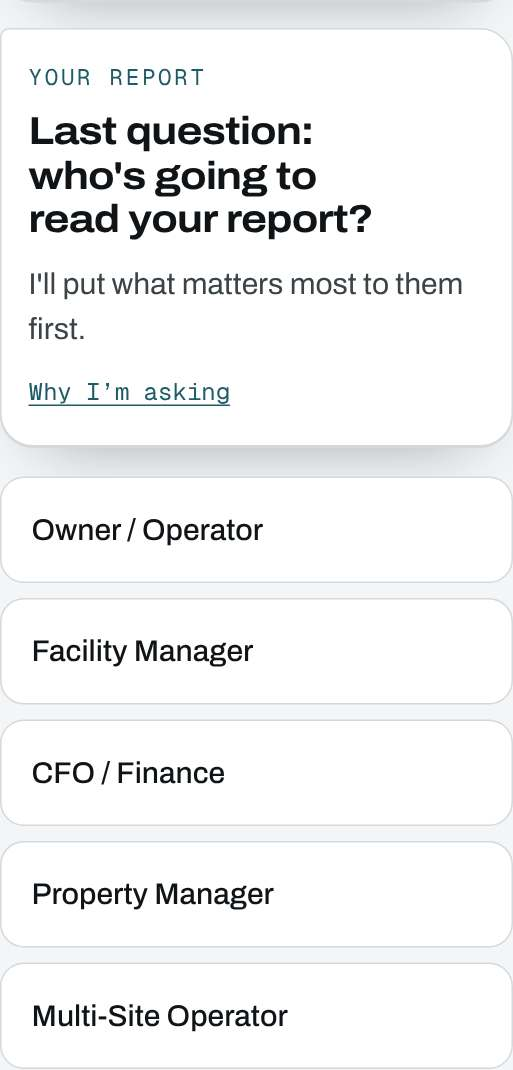
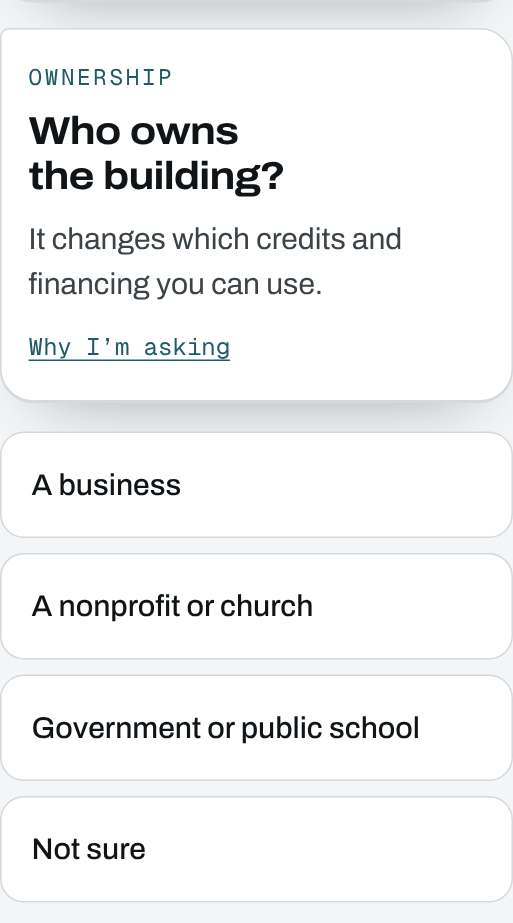
Watt: building-owner question (business, nonprofit or church, government); financing and programs adapt (write-offs for businesses, elective pay for nonprofits and public, performance contracts for public)
Claude-Session: https://claude.ai/code/session_01LfCeLidvVX36Pf8KB3LPn7

diff --git a/walkthrough/app.js b/walkthrough/app.js
@@ -323,7 +323,7 @@
   function restore(o, viewOnly) {
     S = o; S.resumed = true; if (viewOnly) S.viewOnly = true;
     S.pf = S.pf || {}; S.ans = S.ans || {}; S.chip = S.chip || {}; S.order = S.order || [];
-    if (S.fac && FAC[S.fac]) { S.path = FAC[S.fac].path(); TOTAL = 9 + S.path.length; }
+    if (S.fac && FAC[S.fac]) { S.path = FAC[S.fac].path(); TOTAL = 10 + S.path.length; }
     renderProfile();
   }
   function resumeTo(o) {
@@ -525,6 +525,7 @@
     hours: "The longer things run, the more every bit of waste costs you.",
     done: "So I don&rsquo;t count savings you already have.",
     role: "So I can put what matters most to them at the top.",
+    owner: "Tax credits, write-offs and financing work differently for businesses, nonprofits and public buildings. This lets me show the ones that fit you.",
     stored: "Frozen and chilled storage use power very differently.",
     docks: "Every open dock door lets in warm, wet air your refrigeration has to pull back out.",
     occ: "Hotel bills swing with occupancy, so I adjust for the month you gave me.",
@@ -708,7 +709,7 @@
       opts: FAC_ORDER.map(function (k) { return [k, FAC[k].label]; }), preselect: S.preFac, chip: function (k) { return FAC[k].label.split(" /")[0]; },
       pick: function (k) {
         if (S.fac && S.fac !== k) { S.path.forEach(function (q) { if (q.id !== "age" && q.id !== "summer") { delete S.ans[q.q]; delete S.ans[pathQ(q)]; } }); S.pf = {}; ["cases", "refrigRange", "occupancy", "engOverride", "hours"].forEach(function (x) { delete S[x]; }); }
-        S.fac = k; S.path = FAC[k].path(); TOTAL = 9 + S.path.length; },
+        S.fac = k; S.path = FAC[k].path(); TOTAL = 10 + S.path.length; },
       insight: function () {
         var f = engFac(), sh = f.hvac.cooling + f.hvac.ventilation + f.hvac.heat;
         var rows = [];
@@ -723,9 +724,23 @@
       }, next: locations });
   }
 
+  /* who owns the building decides which tax, credit and financing paths apply */
+  var OWNERS = [["biz", "A business"], ["np", "A nonprofit or church"], ["gov", "Government or public school"], ["unk", "Not sure"]];
+  var OWNER_SAY = {
+    biz: { tag: "Ownership", h: "Businesses can usually write off most of the equipment cost in the first year.", p: "That shrinks the real cost of the project, on top of the savings. I&rsquo;ll show the write-offs, rebates and financing that fit." },
+    np: { tag: "Ownership", h: "Good news: nonprofits and churches can receive some federal energy credits as a cash payment.", p: "It&rsquo;s called elective pay. You don&rsquo;t need to owe taxes to benefit. Battery storage is one example. I&rsquo;ll show what fits your building." },
+    gov: { tag: "Ownership", h: "Public buildings can pay for upgrades out of the savings, without new capital budget.", p: "Most states allow energy savings performance contracts for exactly this, and some federal credits can be received as a cash payment. I&rsquo;ll show what fits." },
+    unk: { tag: "Ownership", h: "No problem. I&rsquo;ll show the options that work for most owners.", p: "We sort out the details on a quick call." }
+  };
+  function owner() {
+    at("owner");
+    question({ whyKey: "owner", id: "owner", step: 9 + S.path.length, eyebrow: "Ownership", q: "Who owns the building?", sub: "It changes which credits and financing you can use.", opts: OWNERS, chip: function (k, l) { return "Owner: " + l.replace(/^A /, ""); },
+      pick: function (k) { S.owner = k; },
+      insight: function (k) { return OWNER_SAY[k]; }, next: role });
+  }
   function role() {
     at("role");
-    question({ whyKey: "role", step: 9 + S.path.length, eyebrow: "Your report", q: "Last question: who's going to read your report?", sub: "I'll put what matters most to them first.", opts: ROLES, chip: function (k, l) { return "Report for: " + l; },
+    question({ whyKey: "role", step: 10 + S.path.length, eyebrow: "Your report", q: "Last question: who's going to read your report?", sub: "I'll put what matters most to them first.", opts: ROLES, chip: function (k, l) { return "Report for: " + l; },
       pick: function (k) { S.role = k; },
       insight: function (k) { return { quiet: true, h: "Got it. " + ROLE_INSIGHT[k].p }; }, next: capture });
   }
@@ -1088,7 +1103,7 @@
       if (!names.length) res = { quiet: true, h: "Then everything I found is still on the table." };
       else res = { tag: "Already done", h: counted.length ? "Good. I took those out of your number so I'm not counting savings you already have." : "Good to know. Those already show up in the bill you gave me.",
         p: (S.done.solar || S.done.led ? "Solar and LED lower your bill, and the bill you gave already reflects them. " : "") + (counted.length ? "What's left is the work your current upgrades don't cover." : "None of them overlap with the fixes in your number.") };
-      respond(slot, res, function () { go(role); }, quiet, false);
+      respond(slot, res, function () { go(owner); }, quiet, false);
     }
     go_.addEventListener("click", function () { finish(picked(), false); });
     show(node);
@@ -1227,13 +1242,16 @@
   }
   function rng(r) { return kmoney(r[0]) + " to " + kmoney(r[1]); }
   var PAY_MEASURES = /HVAC|Efficiency|Refrigeration|Chillers|Demand|Load management|Battery|Most capital|VFD|Motors|Building automation|Custom/i;
+  var EXEMPT_STORAGE = "May receive the federal battery storage credit as a cash payment through elective pay, up to 30 percent";
   function payPrograms() {
-    var codes = S.states && S.states.length ? S.states : [S.state];
+    var codes = S.states && S.states.length ? S.states : [S.state], exempt = S.owner === "np" || S.owner === "gov";
     return (EP.incentives || []).filter(function (x) {
       if (x.id === "usda-reap" || x.id === "itc48e-solar") return false;
+      if (exempt && x.id === "bonus-depreciation") return false;
       var inState = x.states === "all" || codes.some(function (c) { return x.states.indexOf(c) >= 0; });
       return inState && x.measures.some(function (m) { return PAY_MEASURES.test(m); });
-    }).sort(function (a, b) { var o = { Utility: 1, Financing: 2, State: 3, Federal: 4 }; return (o[a.level] || 9) - (o[b.level] || 9); });
+    }).map(function (x) { return exempt && x.id === "itc48e-storage" ? Object.assign({}, x, { display: EXEMPT_STORAGE, url: "https://www.irs.gov/credits-deductions/elective-pay-and-transferability" }) : x; })
+      .sort(function (a, b) { var o = { Utility: 1, Financing: 2, State: 3, Federal: 4 }; return (o[a.level] || 9) - (o[b.level] || 9); });
   }
   function payBlock() {
     var ps = payPrograms(), when = "";
@@ -1242,6 +1260,9 @@
     var label = { Utility: "Utility rebate", Financing: "Financing", State: "State", Federal: "Tax" };
     return '<div class="blk pay"><h2>Ways to pay for it</h2>' +
       '<div class="payhero"><p class="ph-t">Designed to pay for itself</p><p>We structure projects so your savings run about <b>twice the payment</b>, so you&rsquo;re cash-flow positive in the first year. Financing typically runs up to 10 years, subject to lender approval. Have your own lender? Bring them in.</p>' +
+      (S.owner === "np" ? '<p>Nonprofits and churches: the same pay-from-savings structure works without needing a tax bill to benefit, and some credits come back as cash.</p>'
+        : S.owner === "gov" ? '<p>Public buildings: an energy savings performance contract lets the savings pay for the work, with no new capital budget.</p>'
+        : S.owner === "biz" ? '<p>Businesses: first-year write-offs can lower the real cost further.</p>' : "") +
       '<p class="sub">Want us to carry more of the performance risk? That can be built into the agreement when you sign.</p></div>' +
       (ps.length ? '<h3 class="ph-h">Programs that may help pay for it</h3><ul class="progs">' + ps.map(function (x) {
         return '<li><span class="plvl">' + esc(label[x.level] || x.level) + '</span><span class="ptxt">' + esc(x.display) + (x.url ? ' <a href="' + esc(x.url) + '" target="_blank" rel="noopener">Details</a>' : "") + "</span></li>";
@@ -1337,7 +1358,7 @@
     function countAll() { countUp(document.getElementById("lo"), lo, kmoney, 1600); countUp(document.getElementById("hi"), hi, kmoney, 1900); countUp(document.getElementById("typ"), typ, kmoney, 1900); countUp(document.getElementById("ten"), tenTyp, kmoney, 2200); }
     setTimeout(function () { var rg = n.querySelector(".range"); if (rg && window.Watt) Watt.fly(rg, countAll); else countAll(); }, reduce ? 0 : 420);
     if (!reduce) n.querySelectorAll(".finds li").forEach(function (li, i) { setTimeout(function () { li.classList.add("stamped"); }, i * 120 + 900); });
-    if (!S.viewOnly && !(S.resumed && S.leadSent)) sendLead({ kind: S.leadSent ? "diagnostic, updated answers" : "diagnostic", name: S.name, phone: S.phone, role: S.role, facility: F.label, state: S.stateName, states: (S.states || []).join(" "), locations: S.locLabel,
+    if (!S.viewOnly && !(S.resumed && S.leadSent)) sendLead({ kind: S.leadSent ? "diagnostic, updated answers" : "diagnostic", name: S.name, phone: S.phone, role: S.role, owner: S.owner || "", facility: F.label, state: S.stateName, states: (S.states || []).join(" "), locations: S.locLabel,
       monthly_bill_each: S.monthly, bill_estimated: !!S.estimated, season: S.season, age: S.ageKey || "", summer: S.summer || "",
       why: S.why || "", status: S.status || "", months_open: S.monthsOpen || "", already_done: Object.keys(S.done || {}).join(", "), answers: JSON.stringify(S.answersLog || {}), savings_low: Math.round(lo), savings_high: Math.round(hi), savings_typical: Math.round(typ), ten_year_typical: Math.round(tenTyp) });
   }
@@ -1364,6 +1385,6 @@
     try { fetch(LEAD_ENDPOINT, { method: "POST", headers: { "Content-Type": "application/json", "Accept": "application/json" }, body: JSON.stringify(p) }).catch(function () {}); } catch (e) {}
   }
 
-  SCREENS = { why: why, facility: facility, locations: locations, stateQ: stateQ, singleState: singleState, pickStates: pickStates, statusQ: statusQ, monthsQ: monthsQ, planning: planning, under: under, bill: bill, dial: dial, sizeQ: sizeQ, season: season, doneQ: doneQ, role: role, capture: capture, reveal: reveal };
+  SCREENS = { owner: owner, why: why, facility: facility, locations: locations, stateQ: stateQ, singleState: singleState, pickStates: pickStates, statusQ: statusQ, monthsQ: monthsQ, planning: planning, under: under, bill: bill, dial: dial, sizeQ: sizeQ, season: season, doneQ: doneQ, role: role, capture: capture, reveal: reveal };
   intro();
 })();

diff --git a/walkthrough/index.html b/walkthrough/index.html
@@ -699,9 +699,9 @@ html.big #app,html.big .dock .wrap,html.big .ask-in{zoom:1.16}
         <h4>16. Professional history and credentials</h4>
         <p>Biographical and credential statements reflect documented professional history. Supporting documentation is available for verification on request.</p>
         <p><strong>Questions.</strong> For questions about these disclosures or any statement in our materials, contact Energy Plus at <a href="mailto:dan@yourenergyplus.com">dan@yourenergyplus.com</a> or <a href="tel:+18647770688">(864) 777-0688</a>.</p></template>
-<script src="engine/constants.js?v=202611111415"></script>
-<script src="engine/engine.js?v=202611111415"></script>
-<script src="watt.js?v=202611111415"></script>
-<script src="app.js?v=202611111415"></script>
+<script src="engine/constants.js?v=202611111420"></script>
+<script src="engine/engine.js?v=202611111420"></script>
+<script src="watt.js?v=202611111420"></script>
+<script src="app.js?v=202611111420"></script>
 </body>
 </html>
